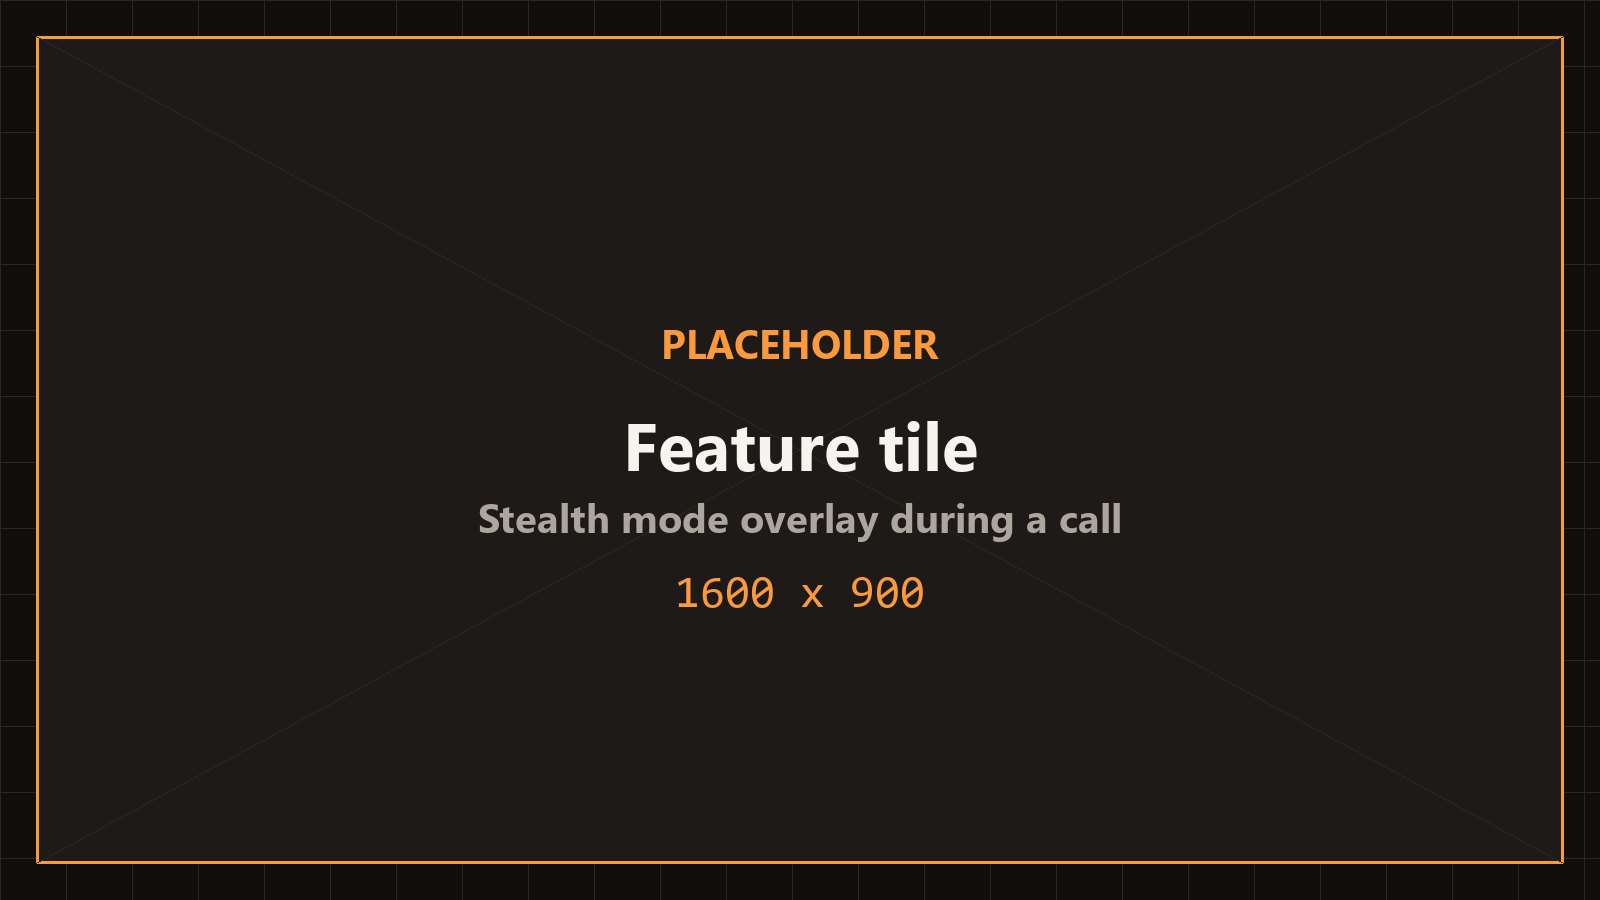
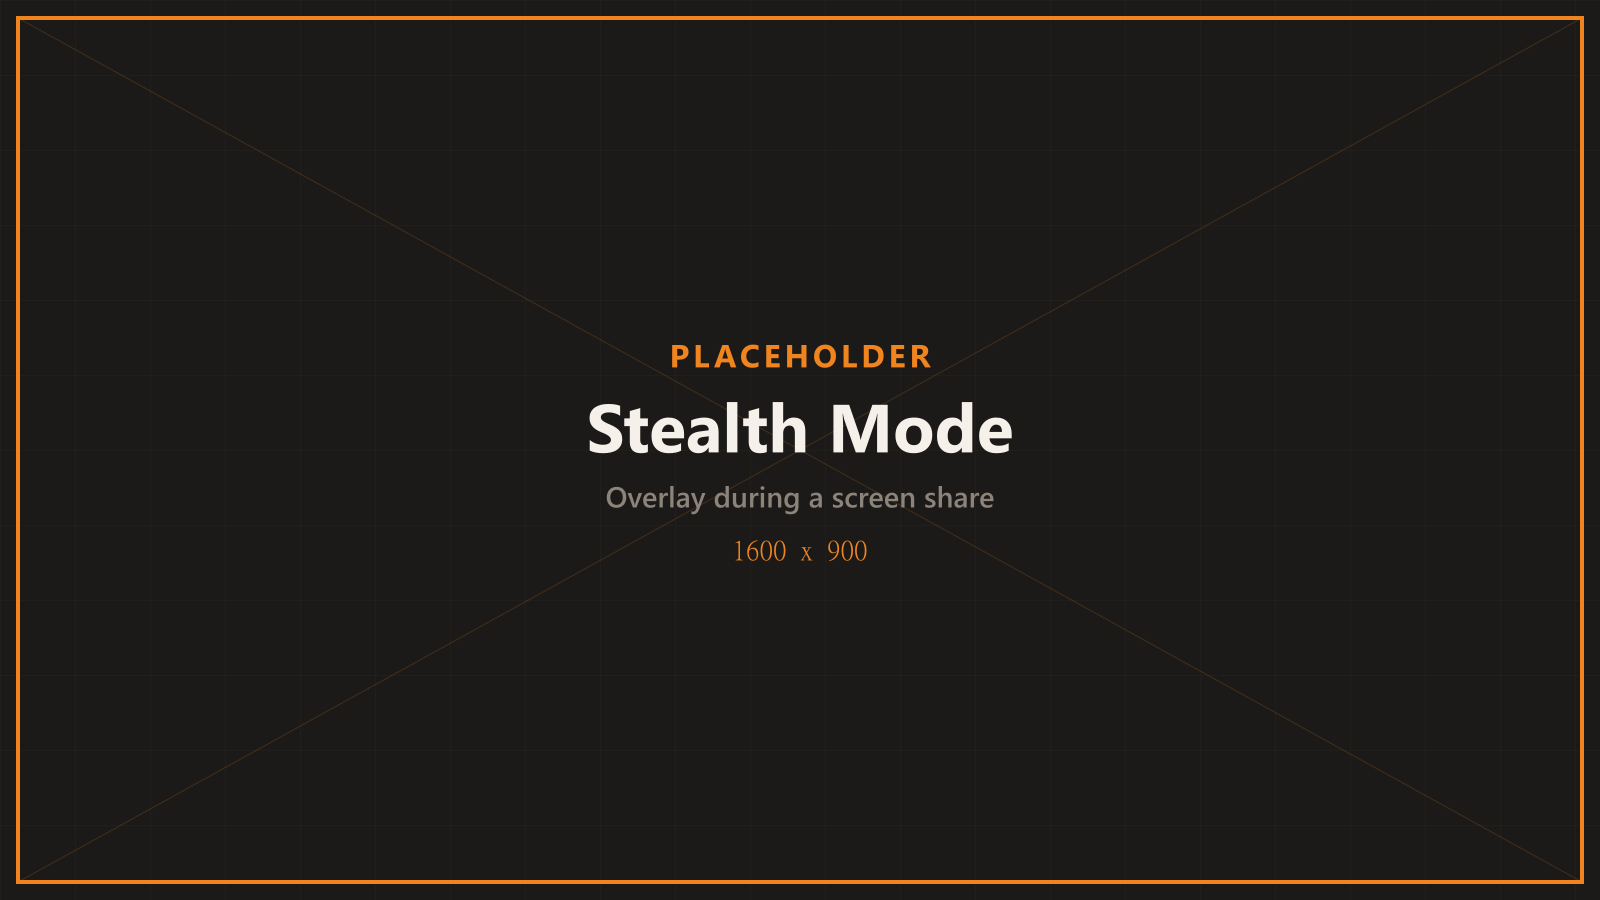
feat(design): check in the placeholder generator, add the missing placeholders
The previous placeholders were one-off scaffolding with the generator left
out of the repo, so the next person needing one had nothing to work from.
scripts/generate-placeholders.mjs is now that source of truth: it holds
every placeholder's exact pixel size alongside what the real asset should
show, and regenerates all of them (or one, by path fragment).

sharp arrives transitively via next rather than as a direct dependency, so
the script resolves it from the pnpm store instead of assuming a hoisted
node_modules.

New placeholders:
- feature-suggestions.png (1600x900) - the AI reply suggestions bento tile
  was the one wide tile with no media
- six docs screenshots at 1482x1083, the app's own capture size:
  installation had no imagery at all, and best-practices/usage described
  the Configuration, language and LLM Options dialogs without showing any
  of them

Both media folders now carry a README saying what each placeholder should
become; public/media/docs/ is a mix of real captures and placeholders, so
its README says which is which.

Deletes open-graph-spec-1200x630.png - a size reference, superseded by the
real card actually being that size.

Changed region(s): [[0.0, 0.0, 1.0, 0.9956], [0.2812, 0.4356, 0.7188, 0.6844], [0.4062, 0.3422, 0.5938, 0.4044]]

diff --git a/public/media/marketing/README.md b/public/media/marketing/README.md
@@ -8,10 +8,17 @@ real and nothing shifts on load; the content is meant to be replaced.
 explicit `width`/`height` (or is a `<video poster>` inside a fixed-ratio frame),
 so a different aspect ratio will either letterbox or shift the layout.
 
+Regenerate any of them with `node scripts/generate-placeholders.mjs` (pass a
+path fragment to do just one, e.g. `… step-install`). That script is the source
+of truth for the sizes below — keep the two in step.
+
 ## Hero carousel posters — 1920×1080 (16:9)
 
 Referenced from `src/components/sections/hero/constants.ts`. These are the first
 paint of the hero, so they are the LCP element — export them well-compressed.
+They are also what a viewer sees when autoplay is suppressed, which now happens
+deliberately under `prefers-reduced-motion` and Data Saver, so they need to sell
+the clip on their own.
 
 | File | Should show |
 |---|---|
@@ -25,14 +32,23 @@ paint of the hero, so they are the LCP element — export them well-compressed.
 > 1482×1083 — a 1.37 ratio that letterboxes badly inside the 16:9 frame.
 > Simplest correct source: grab frame 0 of each mp4 and downscale to 1920×1080.
 
+These same four posters are reused as the `poster` for the two demo clips
+embedded in the docs — see the `VIDEO_POSTERS` map in `src/lib/media.ts`.
+
 ## Features bento tiles — 1600×900 (16:9)
 
-Referenced from `src/components/sections/FeaturesSection.tsx`. Both wide tiles
-share a ratio so the grid rows line up — don't give one a different one.
+Referenced from `src/components/sections/FeaturesSection.tsx`. All three wide
+tiles share a ratio so the grid rows line up — don't give one a different one.
+
+The tile renders them `object-cover` in an `aspect-video` box capped at
+`max-h-64`, so on a wide viewport the top and bottom get trimmed (the cap keeps
+the text-only tile sharing the row from stretching to a 290px-tall void).
+**Keep anything essential in the middle band and away from the edges.**
 
 | File | Should show |
 |---|---|
 | `feature-stealth.png` | The stealth overlay sitting over a call, ideally mid screen-share so the point lands |
+| `feature-suggestions.png` | A reply suggestion streaming into the suggestions panel, ideally mid-stream |
 | `feature-export.png` | An exported DOCX report — summary, action items, speaker-labelled transcript |
 
 There are real screenshots at `media/docs/stealth-mode.png` (2544×1336) and
@@ -57,19 +73,15 @@ next to them, so they're decorative.
 an entry in `src/config/testimonials.ts` sets `avatar` — that file ships empty
 on purpose (real quotes only).
 
-## Open Graph card — 1200×630
+## Open Graph card
 
-`open-graph-spec-1200x630.png` is a **size reference only**, not wired into
-anything.
+Resolved: `public/open-graph.png` is now **1200×630**, the size the Open Graph
+and Twitter `summary_large_image` conventions expect, and the `width`/`height`
+pairs in `src/lib/metadata.ts` and `src/app/layout.tsx` match it. The 1235×647
+original is in git history; the size-reference file that used to live here has
+been deleted.
 
-The live card is `public/open-graph.png` and it is real artwork — but it's
-**1235×647**, and the Open Graph / Twitter `summary_large_image` convention is
-**1200×630**. Every scraper rescales it. Re-export the real card at 1200×630,
-replace `public/open-graph.png`, then update the two `width`/`height` pairs in
-`src/lib/metadata.ts` and `src/app/layout.tsx`. Delete this spec file once
-that's done.
-
-## Regenerating
-
-The generator is not checked in — these are one-off scaffolding. If you need
-them again, any 16:9 grey box at the sizes above will do.
+One thing that artwork still gets wrong: its mocked-up nav bar reads
+*Home / Features / Why Us / Pricing / FAQ / Docs / Contact*, which is not the
+site's current header (`How it works / Features / Why Us / Pricing / FAQ /
+Contact`, with Docs alongside). Worth fixing next time the card is re-exported.

diff --git a/public/media/docs/README.md b/public/media/docs/README.md
@@ -1,0 +1,51 @@
+# Docs media
+
+Screenshots and diagrams referenced from the markdown in `src/content/docs/`.
+Unlike `../marketing/`, this folder is **mixed** — most files are real captures,
+a few are placeholders waiting on a screenshot.
+
+Markdown can't carry `width`/`height`, so `src/lib/media.ts` reads each file's
+intrinsic size off disk at render time and stamps it onto the element. Nothing
+here needs a fixed size, and swapping a file for one of different dimensions is
+safe — the reserved box follows the file.
+
+## Placeholders — replace these
+
+All 1482×1083, matching the capture size of the existing app screenshots, and
+generated by `node scripts/generate-placeholders.mjs`.
+
+| File | Should show | Referenced from |
+|---|---|---|
+| `first-run-setup.png` | The sign-in / first-run screen | `installation.md` |
+| `install-windows.png` | `PowerInterviewAI-Setup.exe` running | `installation.md` |
+| `install-macos.png` | The DMG window, app being dragged to Applications | `installation.md` |
+| `configuration-dialog.png` | The Configuration dialog — name, CV, context | `best-practices.md`, `usage.md` |
+| `language-menu.png` | The interview-language menu open on the control bar | `usage.md` |
+| `llm-options.png` | The LLM Options dialog — provider, key, model | `usage.md` |
+
+Overwrite the file in place and the markdown needs no edit.
+
+## Real captures
+
+`app-overview.jpg`, `app-overview-stealth.jpg`, `stealth-mode.png`,
+`audio-options.png`, `export-interview.png`, `export-example.png`,
+`export-example.docx`, `mock-interview-1..4.png`, and the four
+`macos-update-*.png` permission screenshots.
+
+`architecture-diagram.svg` and `window-positioning.svg` are hand-authored
+diagrams, not captures — edit the SVG rather than re-shooting.
+
+## Demo clips
+
+The long demo videos are **not** duplicated here. Docs markdown references the
+shared clips in `public/media/` directly (`live-interview-assistant.mp4`,
+`coding-challenge-1.mp4`). Each renders with a poster from
+`public/media/marketing/`, wired up in `src/lib/media.ts` — add an entry there
+if you embed another clip, or it will paint a black rectangle until played.
+
+## Alt text
+
+Alt text doubles as the visible caption under each figure
+(`src/components/docs/MarkdownImage.tsx`), so write a real description. Filler
+like `![Image](…)` is recognised and suppressed from the caption, but it still
+leaves a screen reader with nothing — don't add more of it.
